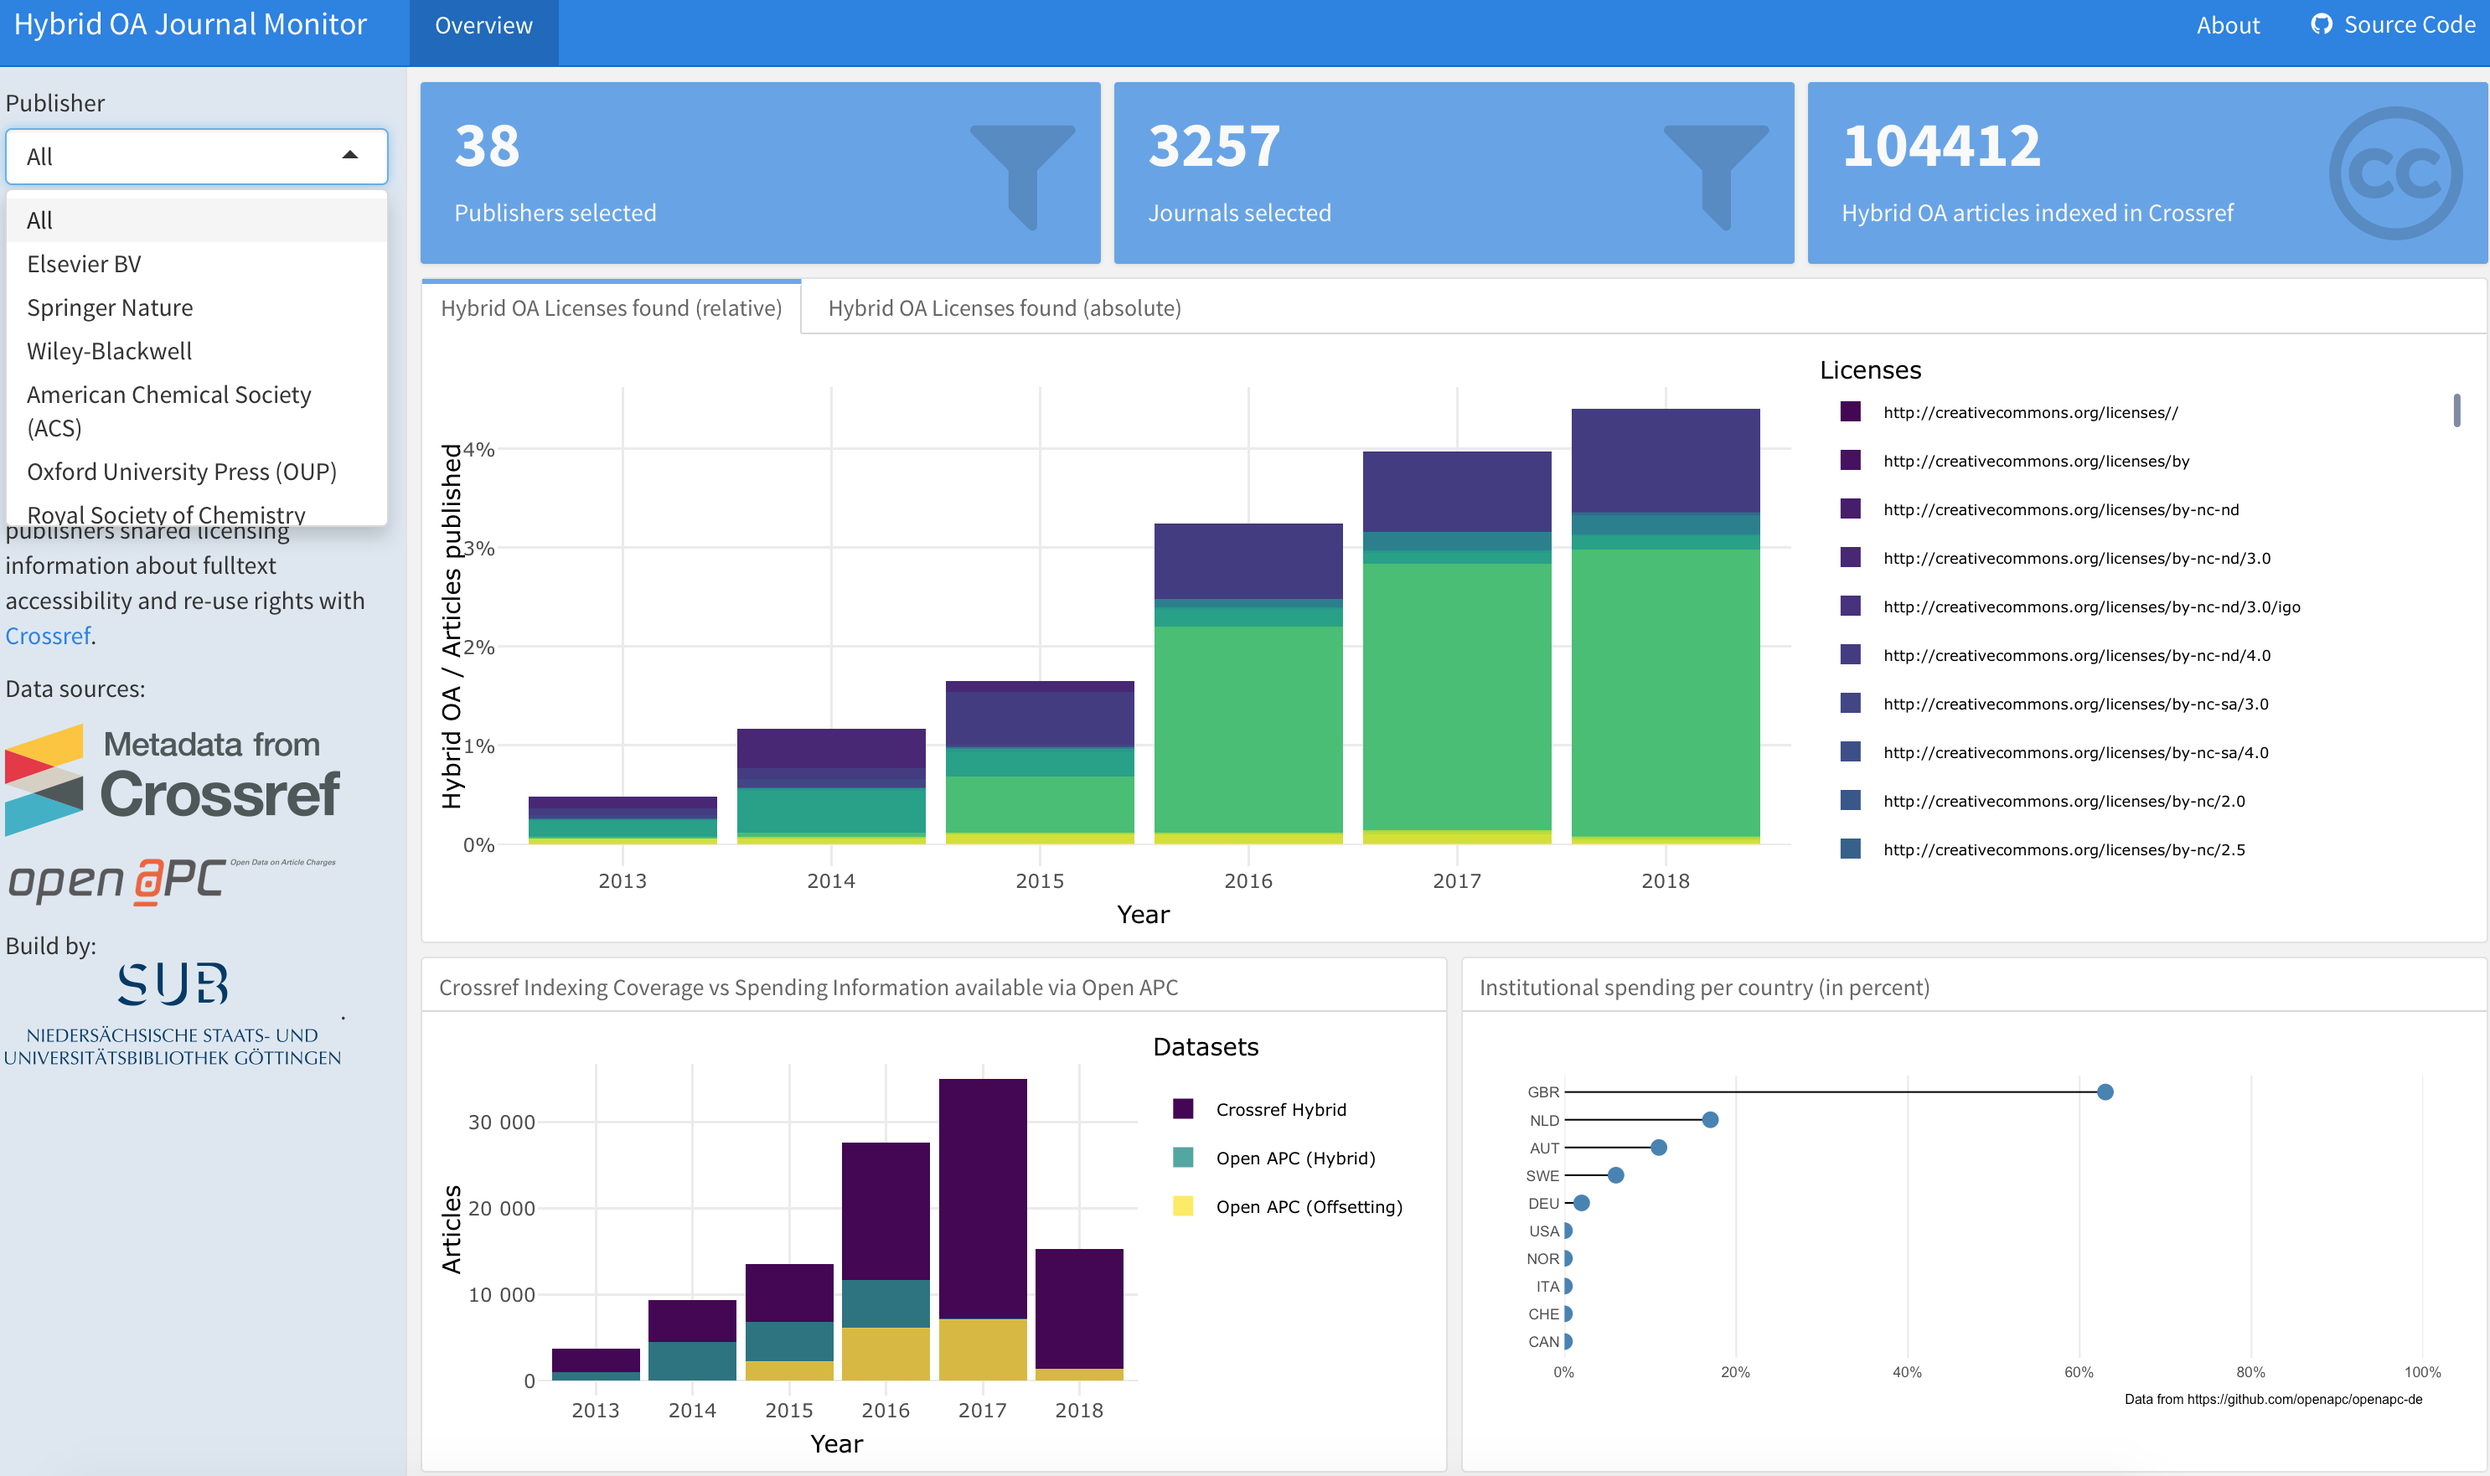
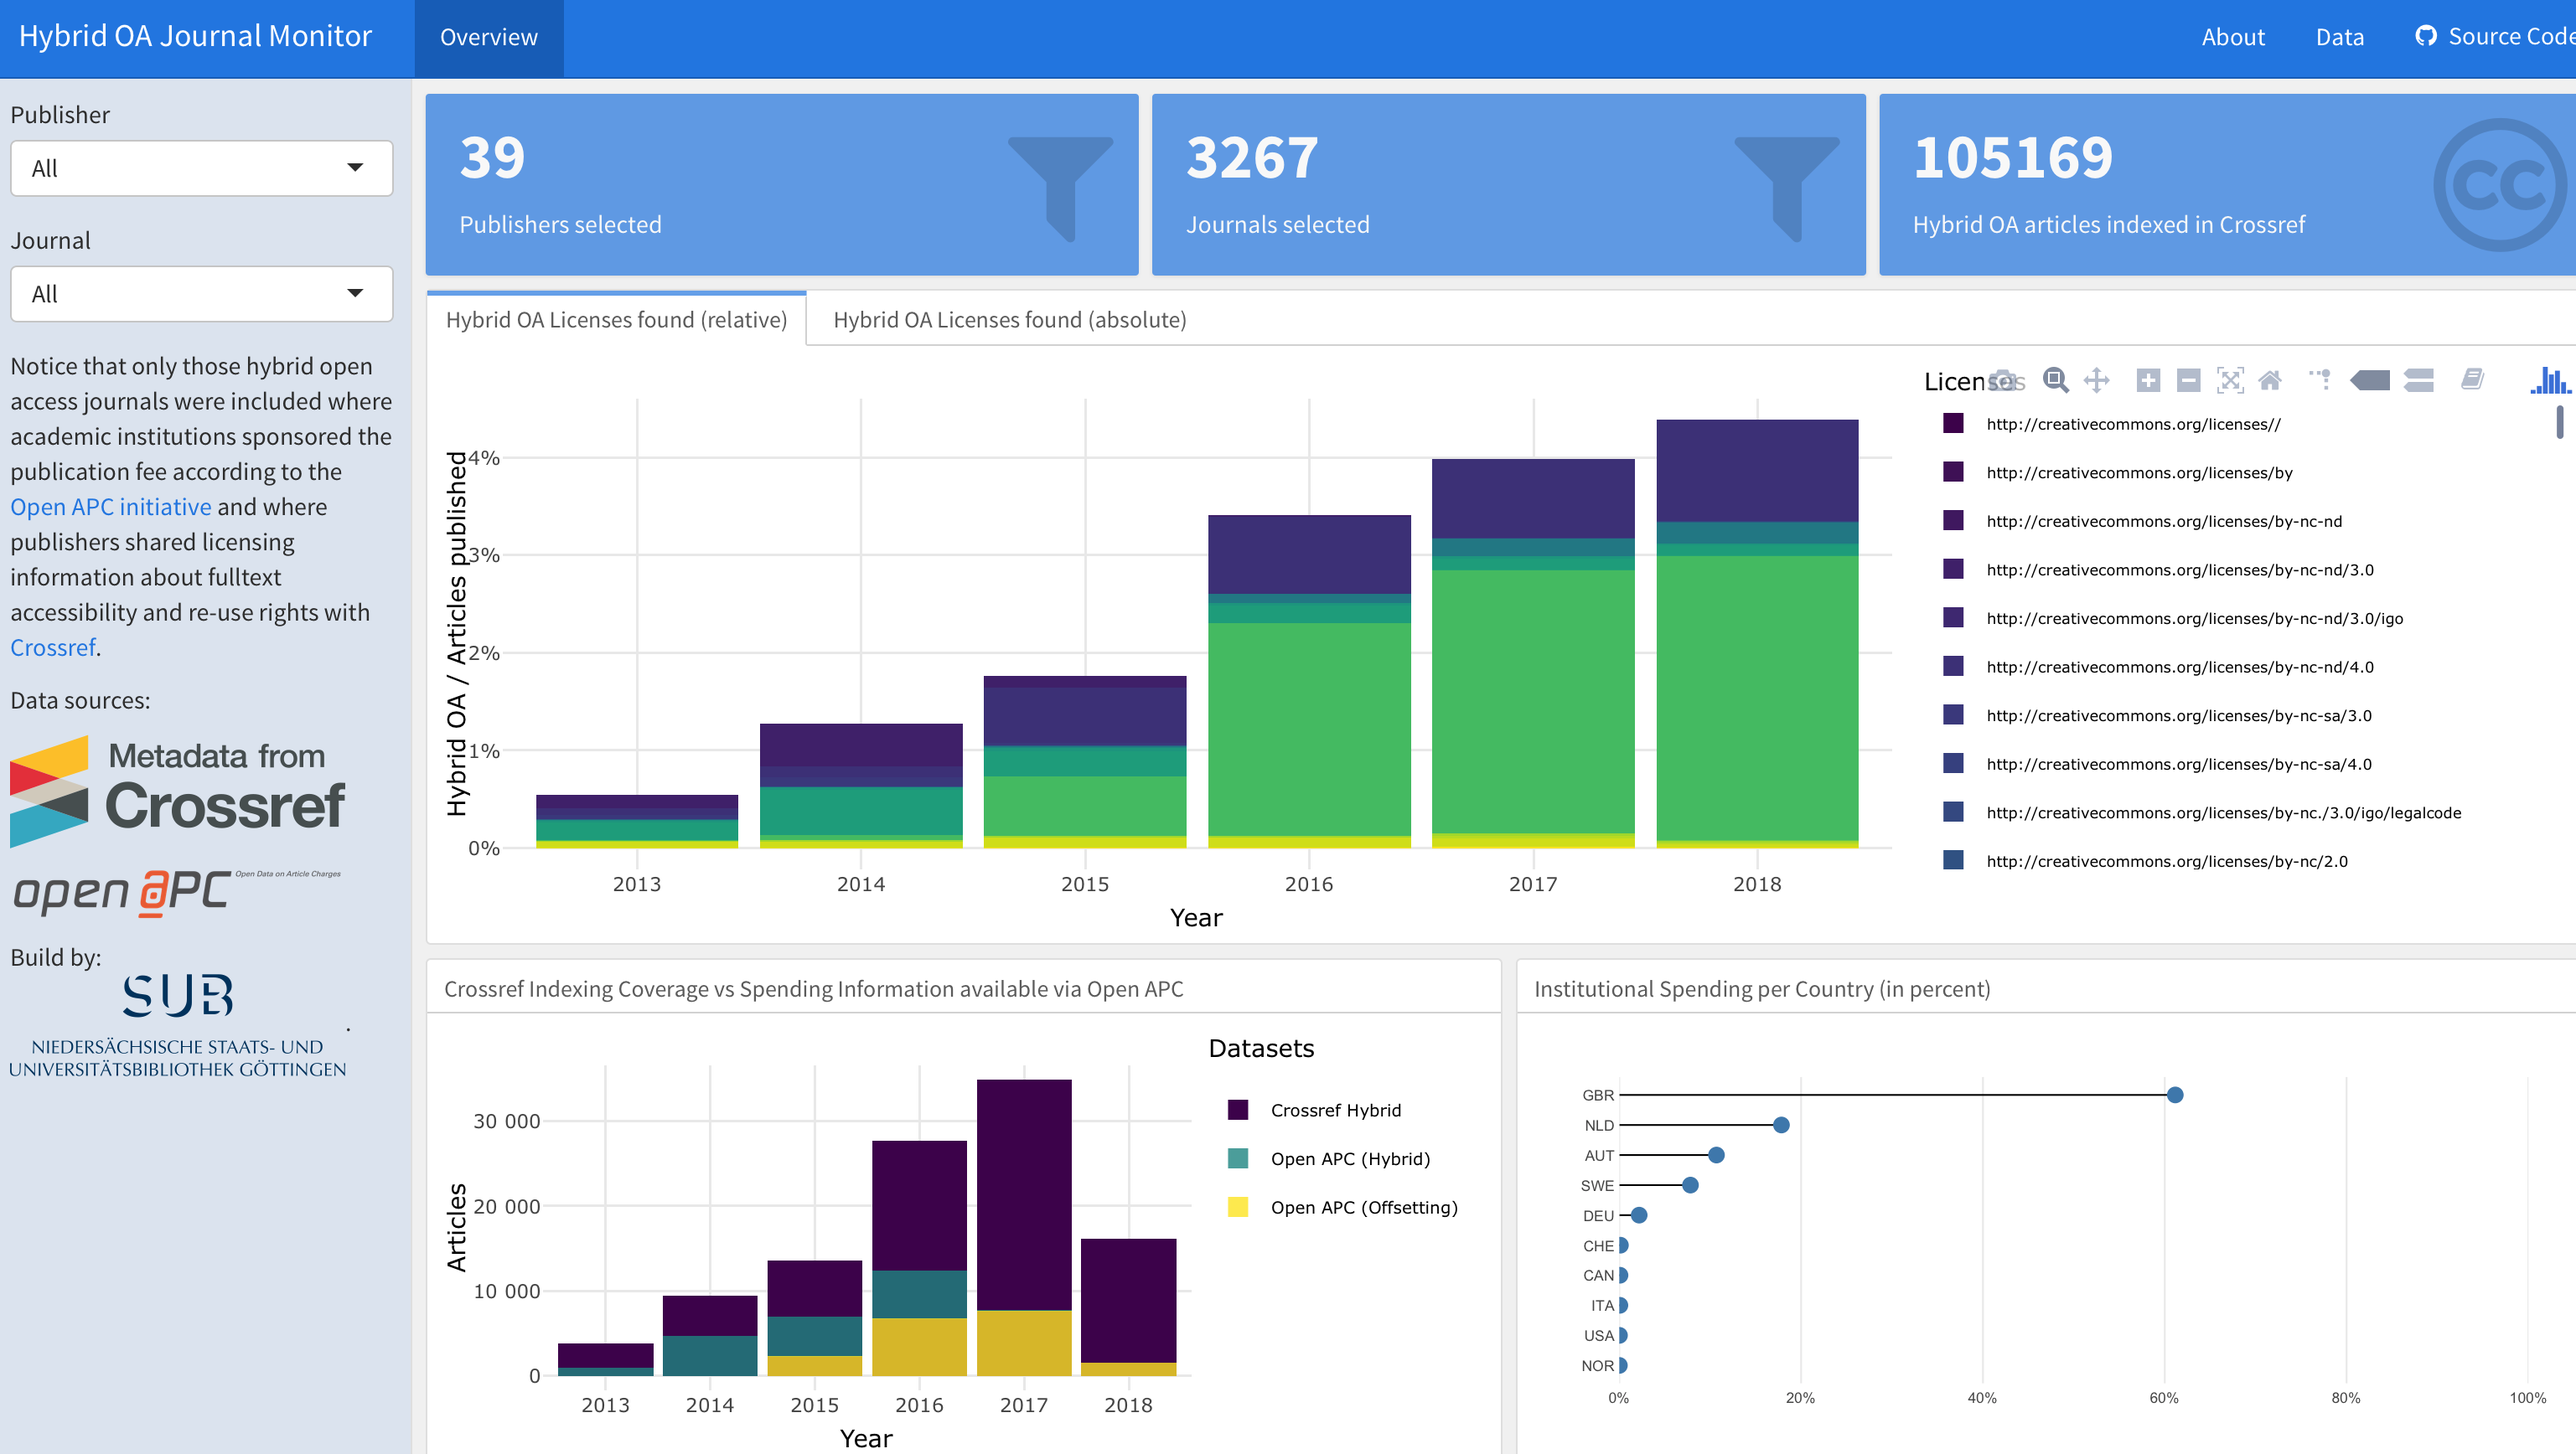
update docu

diff --git a/data/README.md b/data/README.md
@@ -34,20 +34,20 @@ Tibble view in R:
 ```r
 library(readr)
 readr::read_csv("hybrid_publications.csv")
-#> # A tibble: 104,174 x 14
+#> # A tibble: 105,169 x 14
 #>    license       journal_title  publisher doi_oa   issued yearly_jn_volume
 #>    <chr>         <chr>          <chr>     <chr>     <int>            <int>
 #>  1 http://creat… Soft Computing Springer… 10.1007…   2016              466
 #>  2 http://creat… Soft Computing Springer… 10.1007…   2016              466
 #>  3 http://creat… Soft Computing Springer… 10.1007…   2015              428
-#>  4 http://creat… Soft Computing Springer… 10.1007…   2016              466
-#>  5 http://creat… Soft Computing Springer… 10.1007…   2015              428
+#>  4 http://creat… Soft Computing Springer… 10.1007…   2015              428
+#>  5 http://creat… Soft Computing Springer… 10.1007…   2017              505
 #>  6 http://creat… Soft Computing Springer… 10.1007…   2017              505
-#>  7 http://creat… Soft Computing Springer… 10.1007…   2017              505
-#>  8 http://creat… Soft Computing Springer… 10.1007…   2015              428
-#>  9 http://creat… Soft Computing Springer… 10.1007…   2016              466
-#> 10 http://creat… Soft Computing Springer… 10.1007…   2015              428
-#> # ... with 104,164 more rows, and 8 more variables: license_ref_n <int>,
+#>  7 http://creat… Soft Computing Springer… 10.1007…   2015              428
+#>  8 http://creat… Soft Computing Springer… 10.1007…   2016              466
+#>  9 http://creat… Soft Computing Springer… 10.1007…   2015              428
+#> 10 http://creat… Soft Computing Springer… 10.1007…   2017              505
+#> # ... with 105,159 more rows, and 8 more variables: license_ref_n <int>,
 #> #   yearly_publisher_volume <int>, yearly_all <int>, period <int>,
 #> #   euro <dbl>, hybrid_type <chr>, country <chr>, country_name <chr>
 ```
@@ -60,7 +60,7 @@ Open data from the Open APC Initiative and Crossref were used to identify hybrid
 
 #### [`oapc_hybrid.csv`](oapc_hybrid.csv)
 
-This dataset is obtained from the [Open APC Initiative](https://github.com/openapc/openapc-de) and was used to determine hybrid open access journals. It also includes data about offsetting aggrements, which has no pricing information, as well as country information.
+This dataset was obtained from the [Open APC Initiative](https://github.com/openapc/openapc-de) and was used to determine hybrid open access journals. It also includes data about offsetting aggrements, which has no pricing information, as well as country information.
 
 Data schema: <https://github.com/OpenAPC/openapc-de/wiki/schema>
 
@@ -70,7 +70,7 @@ Tibble view in R:
 ```r
 library(readr)
 readr::read_csv("oapc_hybrid.csv")
-#> # A tibble: 39,365 x 21
+#> # A tibble: 39,454 x 21
 #>    institution  period euro  doi     is_hybrid publisher journal_full_tit…
 #>    <chr>         <int> <chr> <chr>   <lgl>     <chr>     <chr>            
 #>  1 Aberystwyth…   2015 <NA>  10.100… T         Springer… Soft Computing   
@@ -83,7 +83,7 @@ readr::read_csv("oapc_hybrid.csv")
 #>  8 Anglia Rusk…   2016 <NA>  10.100… T         Springer… Experimental Bra…
 #>  9 Anglia Rusk…   2016 <NA>  10.100… T         Springer… Morphology       
 #> 10 Anglia Rusk…   2016 <NA>  10.100… T         Springer… The Internationa…
-#> # ... with 39,355 more rows, and 14 more variables: issn <chr>,
+#> # ... with 39,444 more rows, and 14 more variables: issn <chr>,
 #> #   issn_print <chr>, issn_electronic <chr>, issn_l <chr>,
 #> #   license_ref <chr>, indexed_in_crossref <lgl>, pmid <int>, pmcid <chr>,
 #> #   ut <chr>, url <chr>, doaj <lgl>, hybrid_type <chr>, country <chr>,
@@ -134,20 +134,20 @@ library(jsonlite)
 library(dplyr)
 jsonlite::stream_in(file("../data/hybrid_license_md.json"), verbose = FALSE) %>%
   dplyr::as_data_frame()
-#> # A tibble: 111,635 x 36
+#> # A tibble: 112,830 x 36
 #>    alternative.id container.title created  deposited DOI    indexed ISSN  
 #>  * <chr>          <chr>           <chr>    <chr>     <chr>  <chr>   <chr> 
 #>  1 2341           Soft Computing  2016-09… 2017-06-… 10.10… 2017-1… 1432-…
 #>  2 2067           Soft Computing  2016-02… 2017-07-… 10.10… 2017-1… 1432-…
 #>  3 1801           Soft Computing  2015-07… 2017-06-… 10.10… 2017-1… 1432-…
-#>  4 2391           Soft Computing  2016-10… 2017-06-… 10.10… 2017-1… 1432-…
-#>  5 1802           Soft Computing  2015-08… 2017-06-… 10.10… 2017-1… 1432-…
-#>  6 2705           Soft Computing  2017-07… 2017-07-… 10.10… 2017-1… 1432-…
-#>  7 2738           Soft Computing  2017-07… 2017-07-… 10.10… 2017-1… 1432-…
-#>  8 1923           Soft Computing  2015-11… 2017-06-… 10.10… 2017-1… 1432-…
-#>  9 2126           Soft Computing  2016-04… 2017-06-… 10.10… 2017-1… 1432-…
-#> 10 1913           Soft Computing  2015-11… 2017-06-… 10.10… 2017-1… 1432-…
-#> # ... with 111,625 more rows, and 29 more variables: issue <chr>,
+#>  4 1802           Soft Computing  2015-08… 2017-06-… 10.10… 2017-1… 1432-…
+#>  5 2705           Soft Computing  2017-07… 2017-07-… 10.10… 2017-1… 1432-…
+#>  6 2738           Soft Computing  2017-07… 2017-07-… 10.10… 2017-1… 1432-…
+#>  7 1923           Soft Computing  2015-11… 2017-06-… 10.10… 2017-1… 1432-…
+#>  8 2126           Soft Computing  2016-04… 2017-06-… 10.10… 2017-1… 1432-…
+#>  9 1913           Soft Computing  2015-11… 2017-06-… 10.10… 2017-1… 1432-…
+#> 10 2732           Soft Computing  2017-07… 2017-07-… 10.10… 2017-1… 1432-…
+#> # ... with 112,820 more rows, and 29 more variables: issue <chr>,
 #> #   issued <chr>, license_date <chr>, license_URL <chr>,
 #> #   license_delay.in.days <chr>, license_content.version <chr>,
 #> #   member <chr>, page <chr>, prefix <chr>, publisher <chr>,
@@ -183,7 +183,7 @@ Tibble view in R:
 ```r
 library(readr)
 readr::read_csv("indicator.csv")
-#> # A tibble: 25,667 x 7
+#> # A tibble: 25,732 x 7
 #>    journal_title  publisher  year yearly_jn_volume license   license_ref_n
 #>    <chr>          <chr>     <int>            <int> <chr>             <int>
 #>  1 Soft Computing Springer…  2017              505 http://c…            19
@@ -191,12 +191,12 @@ readr::read_csv("indicator.csv")
 #>  3 Soft Computing Springer…  2015              428 http://c…            10
 #>  4 Soft Computing Springer…  2014              349 <NA>                 NA
 #>  5 Soft Computing Springer…  2013              234 <NA>                 NA
-#>  6 Soft Computing Springer…  2018              191 http://c…             4
+#>  6 Soft Computing Springer…  2018              206 http://c…             4
 #>  7 Geoheritage    Springer…  2017               65 http://c…             3
 #>  8 Geoheritage    Springer…  2016               42 http://c…             2
 #>  9 Geoheritage    Springer…  2014               41 <NA>                 NA
 #> 10 Geoheritage    Springer…  2015               32 http://c…             2
-#> # ... with 25,657 more rows, and 1 more variable:
+#> # ... with 25,722 more rows, and 1 more variable:
 #> #   yearly_publisher_volume <int>
 ```
 

diff --git a/README.md b/README.md
@@ -26,38 +26,12 @@ rmarkdown::run("dashboard.Rmd")
 
 ## Methods and data
 
-Methods used are available in the R folder. [`R/cr_fetching.R`](R/cr_fetching.R) describes how licensing and journal metadata were obtained from [Crossref](https://www.crossref.org/), using the [rcrossref](https://github.com/ropensci/rcrossref) client, developed and maintained by the rOpenSci initiative (https://ropensci.org/). [`R/oapc.R`](R/oapc.R) shows how cost information was analysed. 
+Methods used are available in the R folder. [`R/cr_fetching.R`](R/cr_fetching.R) describes how licensing and journal metadata were obtained from [Crossref](https://www.crossref.org/), using the [rcrossref](https://github.com/ropensci/rcrossref) client, developed and maintained by the rOpenSci initiative (https://ropensci.org/). [`R/cr_match.R`](R/cr_match.R) shows how the dataset were merged together and how the count data used for the dashboard were calculated. 
 
 <!--For a long-form documentation, see [about.md](about.md)-->
 
-### Data
+Comprehenive metadata about hybrid open access articles found are shared as well. See this [overview](data/README.md) about how datasets are coded to facilitate analysis.
 
-Data files stored in the [data/](data/) folder include:
-
-#### Indicator dataset
-
-[data/hybrid_license_indicators.json](data/hybrid_license_indicators.json) and [data/hybrid_license_indicators.csv](data/hybrid_license_indicators.csv)
-
-containing the following variables:
-
-|Variable            |Description
-|:-------------------|:------------------------------------------------------------------|
-|`journal_title`     |Journal Title                                                      |
-|`publisher`         |Publisher Name                                                     |
-|`issn`              |ISSN                                                               |
-|`year`              |Publishing year                                                    |
-|`license`           |Open License URL                                                   |
-|`jn_published`      |Yearly article volume per journal                                  |
-|`year_all`          |Yearly article volume of all journals in the dataset               |
-|`year_publisher_all`|Yearly article volume of all journals in the dataset per publisher |                              |
-|`license_ref_n`     |Yearly article volume under the license `license`                  |
-
-
-#### Licensing metadata
-
-[data/jn_facets_df.json](data/jn_facets_df.json) contains journal article volume and corresponding licensing information for the period  2013 - 2017 for each ISSN found in the Open APC dataset representing a hybrid OA journal.
-
-[data/hybrid_license_df.json](data/jn_facets_df.json) stores information about journals with licensing metadata representing hybrid OA journal articles (excluding delayed OA and licenses that only govern text mining)
 
 ## How to contribute?
 
@@ -72,3 +46,11 @@ Please note that this project is released with a [Contributor Code of Conduct](C
 ## Meta
 
 License: MIT
+
+Datasets are released into the public domain.
+
+Anyone is free to copy, modify, publish, use, compile, sell, or distribute these materials in any form, for any purpose, commercial or non-commercial, and by any means.
+
+Crossref asserts no claims of ownership to individual items of bibliographic metadata and associated Digital Object Identifiers (DOIs) acquired through the use of the Crossref Free Services. Individual items of bibliographic metadata and associated DOIs may be cached and incorporated into the user's content and systems.
+
+Open APC Data are made available under the Open Database License: http://opendatacommons.org/licenses/odbl/1.0/. Any rights in individual contents of the database are licensed under the Database Contents License: http://opendatacommons.org/licenses/dbcl/1.0/.
